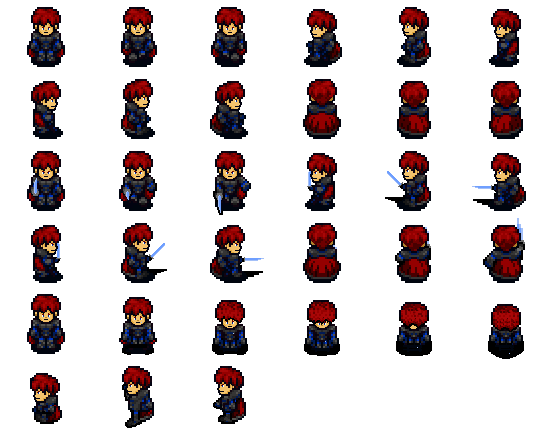
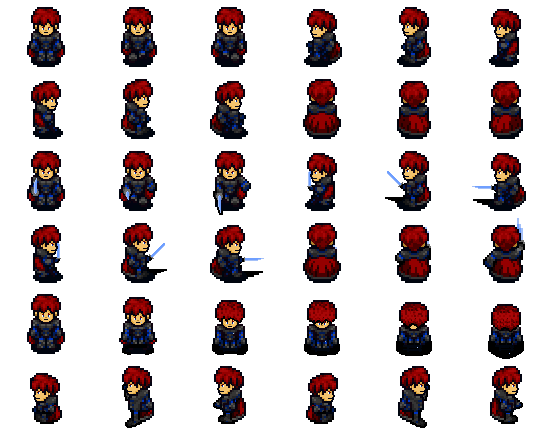
finition du sprite de ezio, puis debut de l'ajout des coups

Changed region(s): [[0.7083, 0.8426, 0.8007, 0.9931], [0.8623, 0.8426, 0.9547, 0.9931], [0.5543, 0.8426, 0.6159, 0.9931]]

diff --git a/CHADventure/CHADventure/Perso.cs b/CHADventure/CHADventure/Perso.cs
@@ -28,65 +28,75 @@ namespace CHADventure
             this._positionPerso = _positionPerso;
         }
 
-        public void DeplacementPerso(GameTime gameTime, TiledMap _tiledMap,TiledMapTileLayer _mapLayer, TiledMapTileLayer _mapLayer2)
+        public void DeplacementPerso(GameTime gameTime, TiledMap _tiledMap, TiledMapTileLayer _mapLayer, TiledMapTileLayer _mapLayer2)
         {
             float deltaTime = (float)gameTime.ElapsedGameTime.TotalSeconds;
             KeyboardState keyboardState = Keyboard.GetState();
-            if ((_positionPerso.X > Perso.LARGEUR_SPRITE / 4) && keyboardState.IsKeyDown(Keys.Q))
+            if (!(keyboardState.IsKeyDown(Keys.Left)))
             {
-                ushort tx = (ushort)(_positionPerso.X / _tiledMap.TileWidth - 1);
-                ushort ty = (ushort)(_positionPerso.Y / _tiledMap.TileHeight + 1);
-                _animation = "walkWest";
-                idle = "S";
+                if ((_positionPerso.X > Perso.LARGEUR_SPRITE / 4) && keyboardState.IsKeyDown(Keys.Q))
+                {
+                    ushort tx = (ushort)(_positionPerso.X / _tiledMap.TileWidth - 1);
+                    ushort ty = (ushort)(_positionPerso.Y / _tiledMap.TileHeight + 1);
+                    _animation = "walkWest";
+                    idle = "S";
 
-                if (!IsCollision(tx, ty,_mapLayer,_mapLayer2))
-                    _positionPerso.X -= VITESSE_PERSO * deltaTime;
-            }
-            else if ((_positionPerso.X < 800 - Perso.LARGEUR_SPRITE / 4) && keyboardState.IsKeyDown(Keys.D))
-            {
-                ushort tx = (ushort)(_positionPerso.X / _tiledMap.TileWidth + 1);
-                ushort ty = (ushort)(_positionPerso.Y / _tiledMap.TileHeight + 1);
-                _animation = "walkEast";
-                idle = "S";
+                    if (!IsCollision(tx, ty, _mapLayer, _mapLayer2))
+                        _positionPerso.X -= VITESSE_PERSO * deltaTime;
+                }
+                else if ((_positionPerso.X < 800 - Perso.LARGEUR_SPRITE / 4) && keyboardState.IsKeyDown(Keys.D))
+                {
+                    ushort tx = (ushort)(_positionPerso.X / _tiledMap.TileWidth + 1);
+                    ushort ty = (ushort)(_positionPerso.Y / _tiledMap.TileHeight + 1);
+                    _animation = "walkEast";
+                    idle = "S";
 
-                if (!IsCollision(tx, ty,_mapLayer, _mapLayer2))
-                    _positionPerso.X += VITESSE_PERSO * deltaTime;
+                    if (!IsCollision(tx, ty, _mapLayer, _mapLayer2))
+                        _positionPerso.X += VITESSE_PERSO * deltaTime;
 
-            }
-            else if ((_positionPerso.Y > Perso.HAUTEUR_SPRITE / 4) && keyboardState.IsKeyDown(Keys.Z))
-            {
-                ushort tx = (ushort)(_positionPerso.X / _tiledMap.TileWidth);
-                ushort ty = (ushort)(_positionPerso.Y / _tiledMap.TileHeight);
-                _animation = "walkNorth";
-                idle = "N";
-               
-                if (!IsCollision(tx, ty, _mapLayer, _mapLayer2))
-                    _positionPerso.Y -= VITESSE_PERSO * deltaTime;
+                }
+                else if ((_positionPerso.Y > Perso.HAUTEUR_SPRITE / 4) && keyboardState.IsKeyDown(Keys.Z))
+                {
+                    ushort tx = (ushort)(_positionPerso.X / _tiledMap.TileWidth);
+                    ushort ty = (ushort)(_positionPerso.Y / _tiledMap.TileHeight);
+                    _animation = "walkNorth";
+                    idle = "N";
 
-                Console.WriteLine(_mapLayer2.GetTile(tx, ty).GlobalIdentifier);
+                    if (!IsCollision(tx, ty, _mapLayer, _mapLayer2))
+                        _positionPerso.Y -= VITESSE_PERSO * deltaTime;
 
-            }
-            else if ((_positionPerso.Y < 800 - Perso.HAUTEUR_SPRITE / 2) && keyboardState.IsKeyDown(Keys.S))
-            {
-                ushort tx = (ushort)(_positionPerso.X / _tiledMap.TileWidth);
-                ushort ty = (ushort)(_positionPerso.Y / _tiledMap.TileHeight + 2);
-                _animation = "walkSouth";
-                idle = "S";
+                    Console.WriteLine(_mapLayer2.GetTile(tx, ty).GlobalIdentifier);
 
-                if (!IsCollision(tx, ty, _mapLayer, _mapLayer2))
-                    _positionPerso.Y += VITESSE_PERSO * deltaTime;
+                }
+                else if ((_positionPerso.Y < 800 - Perso.HAUTEUR_SPRITE / 2) && keyboardState.IsKeyDown(Keys.S))
+                {
+                    ushort tx = (ushort)(_positionPerso.X / _tiledMap.TileWidth);
+                    ushort ty = (ushort)(_positionPerso.Y / _tiledMap.TileHeight + 2);
+                    _animation = "walkSouth";
+                    idle = "S";
 
-                Console.WriteLine(_mapLayer.GetTile(tx, ty).GlobalIdentifier);
+                    if (!IsCollision(tx, ty, _mapLayer, _mapLayer2))
+                        _positionPerso.Y += VITESSE_PERSO * deltaTime;
+
+                    Console.WriteLine(_mapLayer.GetTile(tx, ty).GlobalIdentifier);
+                }
+                else
+                {
+                    if (idle == "N")
+                        _animation = "idleNorth";
+                    else
+                        _animation = "idle";
+                }
             }
             else
             {
-                if (idle == "N")
-                    _animation = "idleNorth";
-                else
-                    _animation = "idle";
+                _animation = "jumpEast";
             }
+
+
+
             //Console.WriteLine($"{_positionPerso.X} + {_positionPerso.Y}");
-            
+
         }
         private bool IsCollision(ushort x, ushort y, TiledMapTileLayer _mapLayer, TiledMapTileLayer _mapLayer2)
         {
